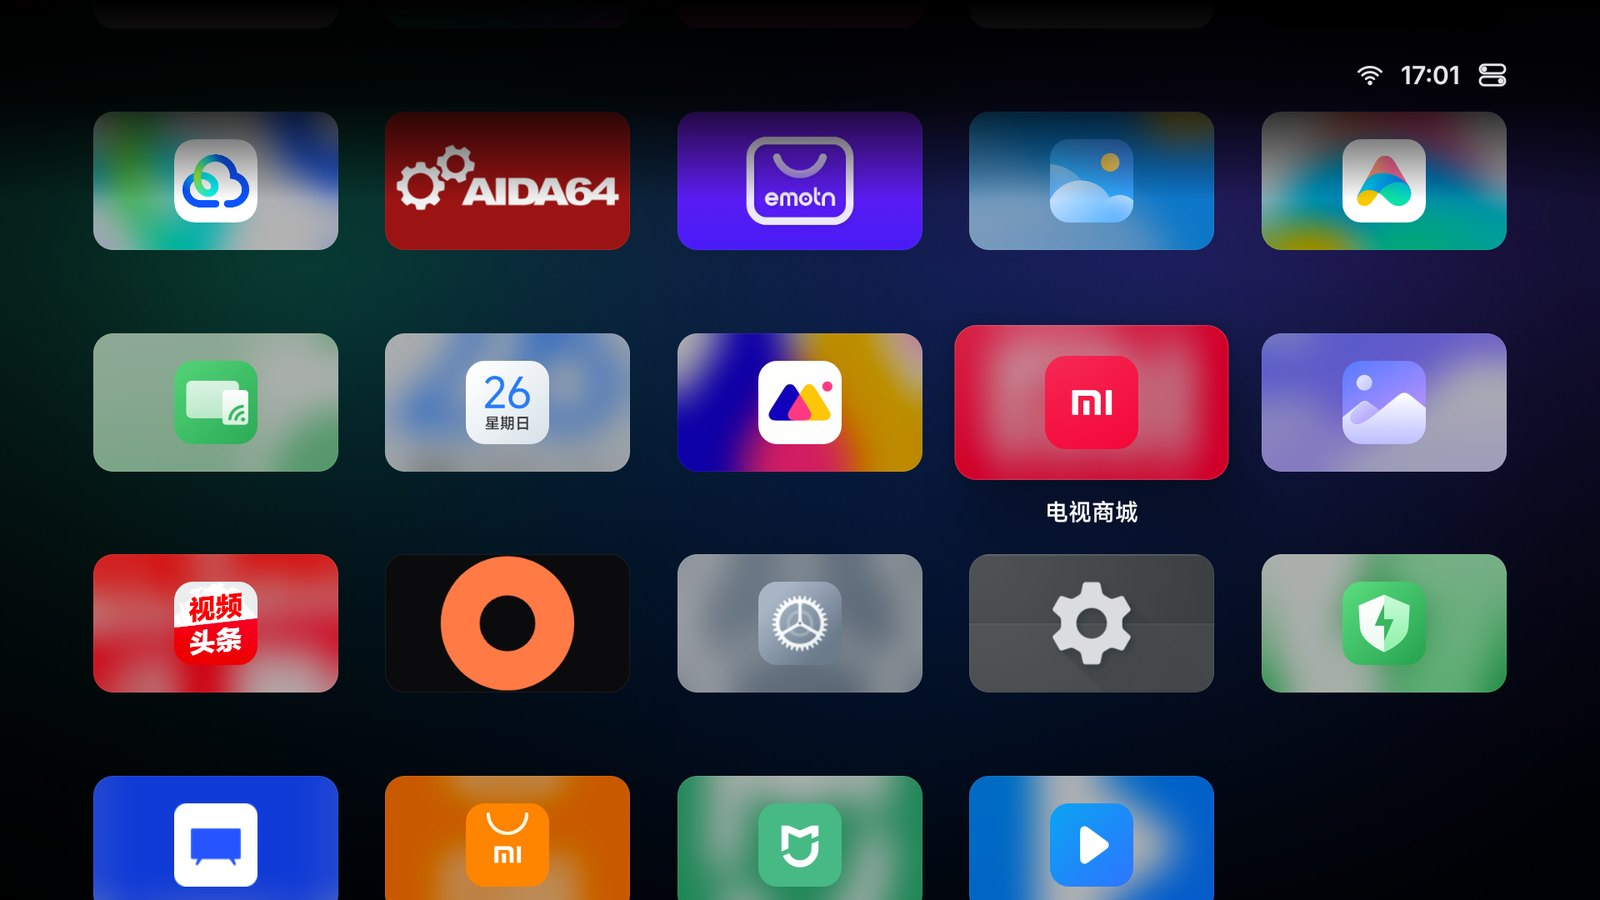
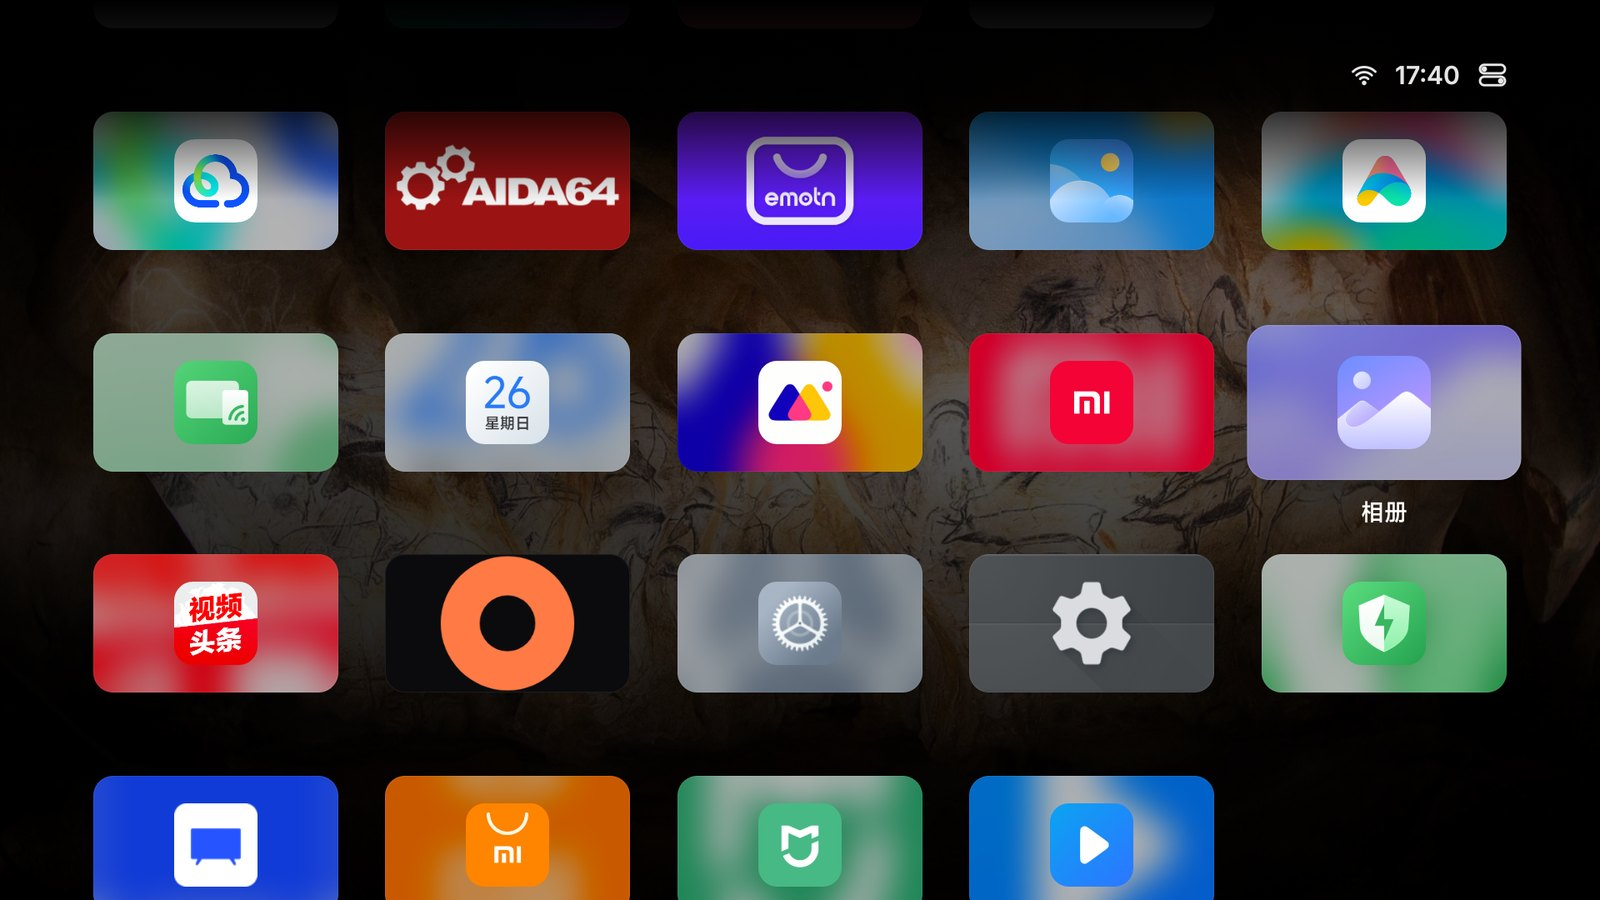
Screenshots on daily wallpapers; before/after slider on the website
Re-shot the screenshots on Bing daily wallpapers instead of gradients, added the
Xiaomi stock launcher for comparison, and made the website hero a before/after
slider that follows the pointer.

Changed region(s): [[0.0, 0.1244, 1.0, 0.9022], [0.8438, 0.0622, 0.9062, 0.0933]]

diff --git a/site/index.html b/site/index.html
@@ -81,6 +81,25 @@
     box-shadow: 0 0 0 10px #111, 0 0 0 11px #2a2a2d, 0 40px 120px -20px rgba(41,151,255,.25), 0 30px 80px rgba(0,0,0,.8);
   }
   .tv .screen img { width: 100%; aspect-ratio: 16 / 9; object-fit: cover; }
+  .compare { --x: 0%; cursor: ew-resize; touch-action: pan-y; user-select: none; -webkit-user-select: none; outline: none; }
+  .compare img { -webkit-user-drag: none; pointer-events: none; }
+  .compare .before { position: absolute; inset: 0; height: 100%; clip-path: inset(0 0 0 var(--x)); }
+  .compare .divider { position: absolute; top: 0; bottom: 0; left: var(--x); width: 2px; margin-left: -1px; background: rgba(255,255,255,.9); box-shadow: 0 0 18px rgba(0,0,0,.5); }
+  .compare .knob {
+    position: absolute; top: 50%; left: 50%; width: 44px; height: 44px; margin: -22px 0 0 -22px; border-radius: 50%;
+    display: grid; place-items: center; color: #111; background: rgba(255,255,255,.92);
+    box-shadow: 0 6px 24px rgba(0,0,0,.45); -webkit-backdrop-filter: blur(10px); backdrop-filter: blur(10px);
+    transition: transform .2s var(--ease);
+  }
+  .compare:hover .knob, .compare:focus-visible .knob { transform: scale(1.08); }
+  .compare .tag {
+    position: absolute; bottom: 16px; padding: 5px 12px; border-radius: 980px; font-size: 13px; font-weight: 600; letter-spacing: .01em;
+    color: #fff; background: rgba(0,0,0,.55); -webkit-backdrop-filter: blur(12px); backdrop-filter: blur(12px);
+    transition: opacity .3s ease;
+  }
+  .compare .tag-after { left: 16px; }
+  .compare .tag-before { right: 16px; }
+  .compare-hint { color: var(--dim); font-size: 14px; margin: 18px 0 0; }
   .tv .stand { width: 26%; height: 14px; margin: 18px auto 0; border-radius: 0 0 10px 10px; background: linear-gradient(#2a2a2d, #141416); }
   .glow { position: absolute; inset: -10% -20% auto; height: 70%; z-index: -1; filter: blur(80px); opacity: .55;
     background: radial-gradient(40% 50% at 30% 50%, #1f7a6a, transparent 70%), radial-gradient(40% 50% at 70% 40%, #3b2a9c, transparent 70%); }
@@ -191,6 +210,10 @@
     .field .opt { padding: 4px 0 6px; }
     table.adb th { width: auto; display: block; padding-bottom: 4px; border: 0; }
     table.adb td { display: block; padding-top: 0; }
+    .compare .tag { bottom: 8px; font-size: 11px; padding: 3px 9px; }
+    .compare .tag-after { left: 8px; }
+    .compare .tag-before { right: 8px; }
+    .compare .knob { width: 34px; height: 34px; margin: -17px 0 0 -17px; }
   }
 </style>
 </head>
@@ -224,8 +247,15 @@
     </div>
     <div class="tv reveal">
       <div class="glow"></div>
-      <div class="screen"><img src="img/home.jpg" alt="Aerial 首页：大号时钟、柔光渐变壁纸和应用网格" width="1600" height="900"></div>
+      <div class="screen compare" id="compare" role="slider" tabindex="0" aria-label="厂商桌面与 Aerial 的对比，左右移动查看" aria-valuemin="0" aria-valuemax="100" aria-valuenow="0">
+        <img class="after" src="img/home.jpg" alt="Aerial 首页：大号时钟、风景壁纸和应用网格" width="1600" height="900">
+        <img class="before" src="img/stock-xiaomi.jpg" alt="电视自带的桌面：满屏剧集推荐、会员和限免角标" width="1600" height="900">
+        <span class="tag tag-after">Aerial</span>
+        <span class="tag tag-before">电视自带的桌面</span>
+        <div class="divider" aria-hidden="true"><span class="knob"><svg width="20" height="20" viewBox="0 0 24 24" fill="none" stroke="currentColor" stroke-width="2.4" stroke-linecap="round" stroke-linejoin="round"><path d="M9 6l-6 6 6 6M15 6l6 6-6 6"/></svg></span></div>
+      </div>
       <div class="stand"></div>
+      <p class="compare-hint">左右移动鼠标，把电视自带的桌面换成 Aerial</p>
     </div>
   </div>
 </header>
@@ -495,6 +525,50 @@ adb shell am start -n app.orchard.tv/.MainActivity`;
     }
     b.textContent = '已复制'; clearTimeout(b.timer); b.timer = setTimeout(() => b.textContent = '复制', 1600);
   }));
+
+  // Before/after: the TV's own launcher on the right of the line, Aerial on the left. The line
+  // follows the pointer across the hero, eased so it glides rather than jumps.
+  (() => {
+    const box = $('#compare');
+    const hero = document.querySelector('.hero');
+    const tagAfter = box.querySelector('.tag-after'), tagBefore = box.querySelector('.tag-before');
+    const reduced = matchMedia('(prefers-reduced-motion: reduce)').matches;
+    let x = 0, target = 0, raf = 0, touched = false;
+    const set = v => {
+      x = v;
+      box.style.setProperty('--x', (x * 100).toFixed(2) + '%');
+      box.setAttribute('aria-valuenow', Math.round(x * 100));
+      tagAfter.style.opacity = x > 0.18 ? 1 : 0;
+      tagBefore.style.opacity = x < 0.82 ? 1 : 0;
+    };
+    const tick = () => {
+      const d = target - x;
+      if (Math.abs(d) < 0.0005) { set(target); raf = 0; return; }
+      set(x + d * 0.14);
+      raf = requestAnimationFrame(tick);
+    };
+    const go = v => { target = Math.min(1, Math.max(0, v)); if (reduced) set(target); else if (!raf) raf = requestAnimationFrame(tick); };
+    const fromEvent = e => { const r = box.getBoundingClientRect(); return (e.clientX - r.left) / r.width; };
+
+    hero.addEventListener('pointermove', e => { if (e.pointerType === 'mouse') { touched = true; go(fromEvent(e)); } });
+    box.addEventListener('pointerdown', e => { touched = true; box.setPointerCapture(e.pointerId); go(fromEvent(e)); });
+    box.addEventListener('pointermove', e => { if (e.pointerType !== 'mouse' && box.hasPointerCapture(e.pointerId)) go(fromEvent(e)); });
+    box.addEventListener('keydown', e => {
+      if (e.key === 'ArrowRight' || e.key === 'ArrowLeft') { e.preventDefault(); touched = true; go(target + (e.key === 'ArrowRight' ? 0.1 : -0.1)); }
+    });
+
+    if (matchMedia('(hover: none)').matches) $('.compare-hint').textContent = '左右拖动，把电视自带的桌面换成 Aerial';
+    set(0);
+    // A first sweep shows what the slider does; it gives way as soon as someone moves the pointer.
+    if (reduced) { set(0.5); return; }
+    const start = () => setTimeout(() => {
+      if (touched) return;
+      go(1);
+      setTimeout(() => { if (!touched) go(0.5); }, 1500);
+    }, 700);
+    const seen = new IntersectionObserver(es => { if (es[0].isIntersecting) { seen.disconnect(); start(); } }, { threshold: 0.5 });
+    seen.observe(box);
+  })();
 
   const io = 'IntersectionObserver' in window ? new IntersectionObserver(es => es.forEach(e => {
     if (e.isIntersecting) { e.target.classList.add('in'); io.unobserve(e.target); }

diff --git a/README.md b/README.md
@@ -18,6 +18,10 @@
 
 ![Aerial 首页](site/img/home.jpg)
 
+| 电视自带的桌面 | 换上 Aerial 之后 |
+|:---:|:---:|
+| <img src="site/img/stock-xiaomi.jpg" alt="电视自带的桌面：满屏剧集推荐、会员和限免角标"> | <img src="site/img/home.jpg" alt="Aerial 首页"> |
+
 </div>
 
 ## 功能
